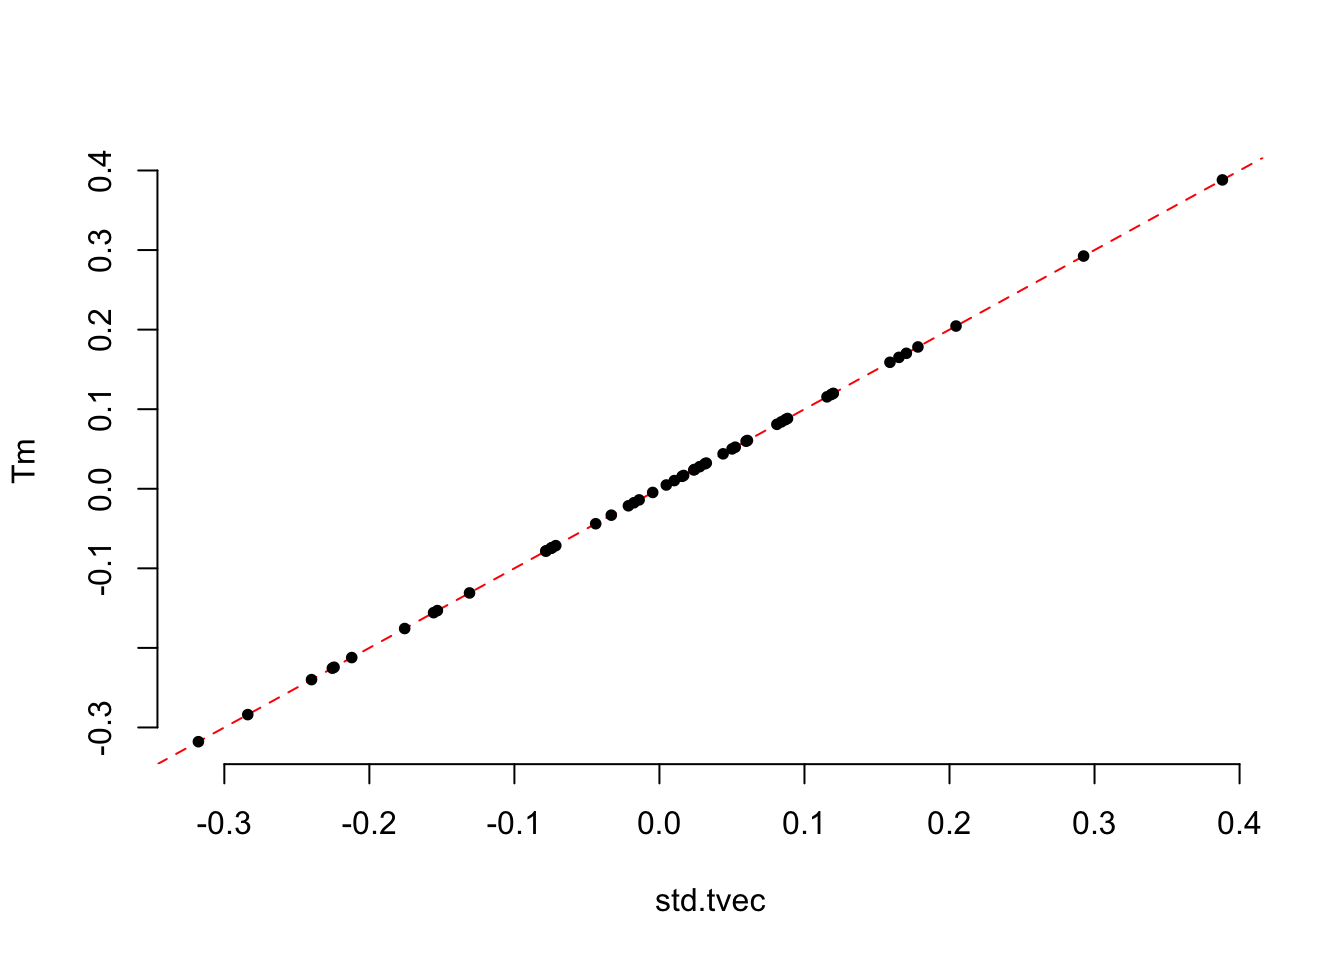
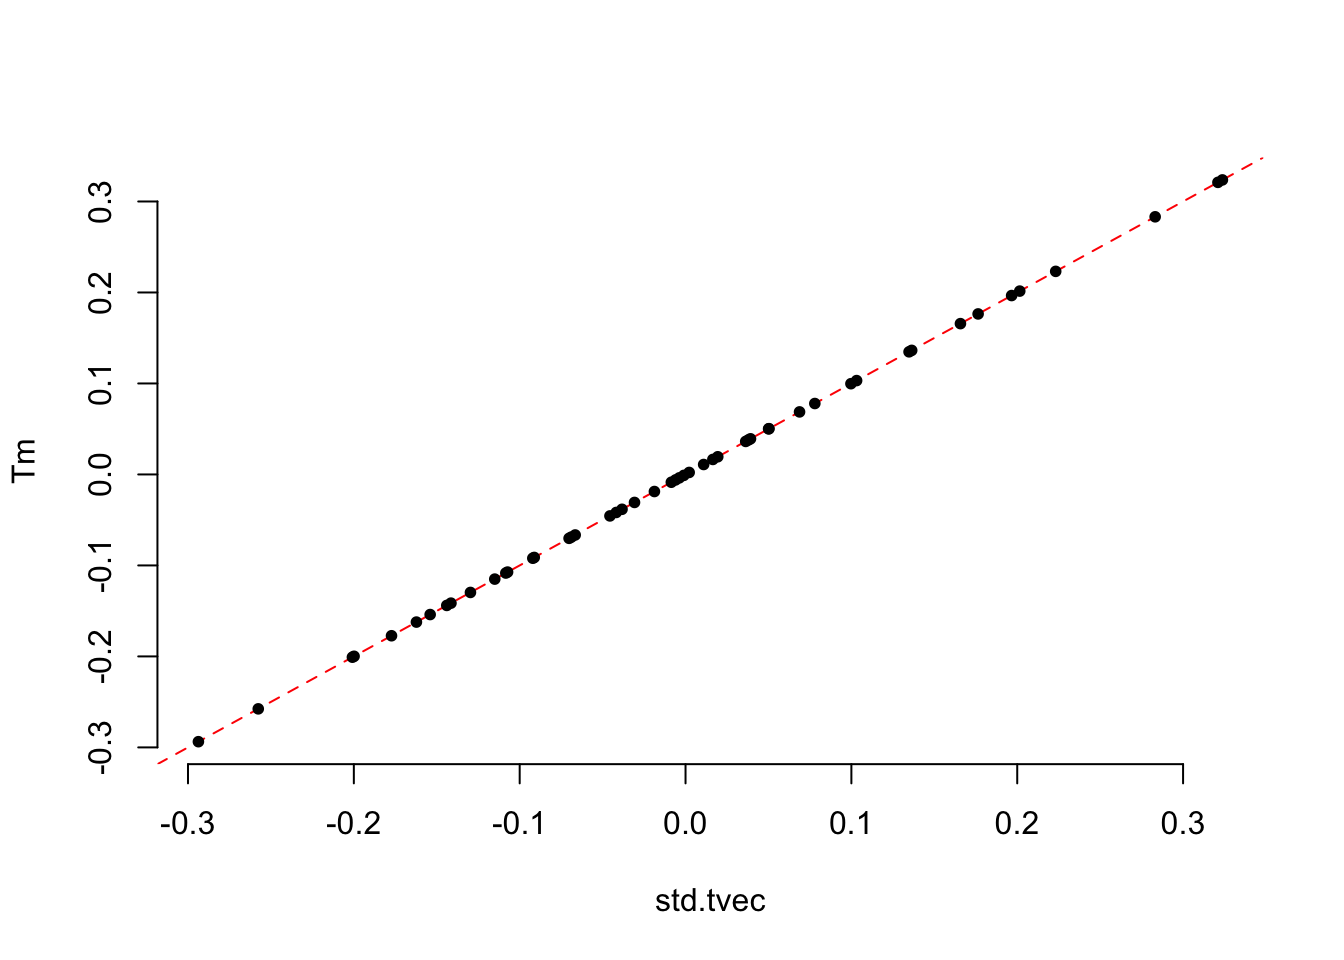
Build site.

diff --git a/docs/Test_vec.html b/docs/Test_vec.html
@@ -413,7 +413,7 @@ div.tocify {
 <div class="tab-content">
 <div id="summary" class="tab-pane fade in active">
 <p>
-<strong>Last updated:</strong> 2020-12-14
+<strong>Last updated:</strong> 2020-12-15
 </p>
 <p>
 <strong>Checks:</strong> <span class="glyphicon glyphicon-ok text-success" aria-hidden="true"></span> 7 <span class="glyphicon glyphicon-exclamation-sign text-danger" aria-hidden="true"></span> 0
@@ -504,16 +504,16 @@ This reproducible <a href="http://rmarkdown.rstudio.com">R Markdown</a> analysis
 <div class="panel panel-default">
 <div class="panel-heading">
 <p class="panel-title">
-<a data-toggle="collapse" data-parent="#workflowr-checks" href="#strongRepositoryversionstrongahrefhttpsgithubcomjgblancpolygenicadaptationstratificationtree675a6155cd1eae8dac8272c65f88fbe6326334detargetblank675a615a"> <span class="glyphicon glyphicon-ok text-success" aria-hidden="true"></span> <strong>Repository version:</strong> <a href="https://github.com/jgblanc/polygenic_adaptation_stratification/tree/675a6155cd1eae8dac8272c65f88fbe6326334de" target="_blank">675a615</a> </a>
+<a data-toggle="collapse" data-parent="#workflowr-checks" href="#strongRepositoryversionstrongahrefhttpsgithubcomjgblancpolygenicadaptationstratificationtree8d38c9dd408cff7b6e8840e7d1876dec6f9fef73targetblank8d38c9da"> <span class="glyphicon glyphicon-ok text-success" aria-hidden="true"></span> <strong>Repository version:</strong> <a href="https://github.com/jgblanc/polygenic_adaptation_stratification/tree/8d38c9dd408cff7b6e8840e7d1876dec6f9fef73" target="_blank">8d38c9d</a> </a>
 </p>
 </div>
[2 lines of base64/hex data omitted]
 <div class="panel-body">
 <p>
 Great! You are using Git for version control. Tracking code development and connecting the code version to the results is critical for reproducibility.
 </p>
 <p>
-The results in this page were generated with repository version <a href="https://github.com/jgblanc/polygenic_adaptation_stratification/tree/675a6155cd1eae8dac8272c65f88fbe6326334de" target="_blank">675a615</a>. See the <em>Past versions</em> tab to see a history of the changes made to the R Markdown and HTML files.
+The results in this page were generated with repository version <a href="https://github.com/jgblanc/polygenic_adaptation_stratification/tree/8d38c9dd408cff7b6e8840e7d1876dec6f9fef73" target="_blank">8d38c9d</a>. See the <em>Past versions</em> tab to see a history of the changes made to the R Markdown and HTML files.
 </p>
 <p>
 Note that you need to be careful to ensure that all relevant files for the analysis have been committed to Git prior to generating the results (you can use <code>wflow_publish</code> or <code>wflow_git_commit</code>). workflowr only checks the R Markdown file, but you know if there are other scripts or data files that it depends on. Below is the status of the Git repository when the results were generated:
@@ -574,6 +574,40 @@ Message
 Rmd
 </td>
 <td>
+<a href="https://github.com/jgblanc/polygenic_adaptation_stratification/blob/8d38c9dd408cff7b6e8840e7d1876dec6f9fef73/analysis/Test_vec.Rmd" target="_blank">8d38c9d</a>
+</td>
+<td>
+jgblanc
+</td>
+<td>
+2020-12-15
+</td>
+<td>
+fixed bug
+</td>
+</tr>
+<tr>
+<td>
+html
+</td>
+<td>
+<a href="https://rawcdn.githack.com/jgblanc/polygenic_adaptation_stratification/25150cd2fa70005c08724bb459d853b0d4465440/docs/Test_vec.html" target="_blank">25150cd</a>
+</td>
+<td>
+jgblanc
+</td>
+<td>
+2020-12-14
+</td>
+<td>
+Build site.
+</td>
+</tr>
+<tr>
+<td>
+Rmd
+</td>
+<td>
 <a href="https://github.com/jgblanc/polygenic_adaptation_stratification/blob/675a6155cd1eae8dac8272c65f88fbe6326334de/analysis/Test_vec.Rmd" target="_blank">675a615</a>
 </td>
 <td>
@@ -594,11 +628,13 @@ Lab meeting
 </div>
 </div>
 <pre class="r"><code>simulate_genotypes &lt;- function(n, L, ploidy) {
+  # Simulate n idividuals, genotyped at L sites with a certain ploidy by drawing from a binomial distribution
   test.genos &lt;- scale(matrix(rbinom(n*L, ploidy, 0.5), ncol = L, nrow = n), scale = F)
   return(test.genos)
 }
 
 PC_test_vec &lt;- function(eig, num_vec) {
+  # Do eigen decomposition and make the &quot;num_nec&quot; eigenvector the test vector and then standardize
   vecs &lt;- eig$vectors
   tvec &lt;- vecs[,num_vec]
   ctvec &lt;- (tvec-mean(tvec))
@@ -607,53 +643,196 @@ PC_test_vec &lt;- function(eig, num_vec) {
 }
 
 categorical_test_vec &lt;- function(n) {
-  ninds = n+n
-  tvec &lt;- c(rep(1,ninds/4),rep(0,ninds/4))
+  # Make the test vector a series of 0&#39;s and 1&#39;s 
+  tvec &lt;- c(rep(1,(n/2)),rep(0, (n/2)))
   ctvec &lt;- (tvec-mean(tvec))
   std.tvec &lt;- ctvec/sqrt(sum(ctvec^2))
   return(std.tvec)
 }
 
 random_cont_test_vec &lt;- function(n){
+  # Make the test vector random, drawn from a uniform distribution 
   tvec &lt;- runif(n)
   ctvec &lt;- (tvec-mean(tvec))
   std.tvec &lt;- ctvec/sqrt(sum(ctvec^2))
   return(std.tvec)  
+}
+
+get_test_vec_coeffs &lt;- function(std.tvec, vecs) {
+  betas &lt;- t(vecs) %*% std.tvec
+  # remove last beta
+  betas &lt;- betas[1:ncol(vecs)-1]
+  return(betas)
 }</code></pre>
-<p>We have a vector along which we want to test a panel of individuals for polygenic adaptation. This test vector can be anything - a priniciple component, a continuous environmental variable, a discrete population label. We have theory that suggests when the test panel and GWAS panel are the same, we should be able to write:</p>
-<p><span class="math display">\[T = GG^TTT^T(GG^T)^{-1}T\]</span></p>
-<p>This only seems to be true when the test vector is prinicple component 1-(n-1) of the test panel.</p>
-<p>Simulate Genotypes</p>
-<pre class="r"><code>test.genos &lt;- simulate_genotypes(50, 1000, 100)
+<p>We have a vector along which we want to test a panel of individuals for polygenic adaptation. This test vector can be anything - a priniciple component, a continuous environmental variable, a discrete population label. When the test panel is equal to the GWAS panel, we can write the test vector as:</p>
+<p><span class="math display">\[T = \sum\limits_{i}^{n-1}\frac{\beta_iGG^TU_i}{\lambda_i}\]</span></p>
+<p>Simulation</p>
+<pre class="r"><code># Simulate genotypes
+test.genos &lt;- simulate_genotypes(50, 1000, 100)
+
+# Covariance matrix
 test.cov &lt;- test.genos%*%t(test.genos)/(ncol(test.genos)-1)
-eig &lt;- eigen(test.cov)</code></pre>
+
+# Eigen decomposition
+eig &lt;- eigen(test.cov)
+vecs &lt;- eig$vectors
+values &lt;- eig$values</code></pre>
 <p>Use Principal Components as Test Vector</p>
-<pre class="r"><code>std.tvec &lt;- PC_test_vec(eig, num_vec = 49)
-t.eigval &lt;- as.numeric(t(std.tvec) %*% test.cov %*% std.tvec)
-Tm &lt;-  (test.cov %*% std.tvec) / as.numeric(t.eigval)
+<pre class="r"><code>std.tvec &lt;- PC_test_vec(eig, num_vec = 1)
+betas &lt;- get_test_vec_coeffs(std.tvec, vecs)
+
+# Calculate Tm
+out &lt;- matrix(NA, ncol = 50, nrow = 49)
+for (i in 1:49){
+   out[i, ] = betas[i] * ((test.cov %*% vecs[,i]) / eig$values[i])
+ }
+Tm = colSums(out)
 
 plot(std.tvec,Tm,type=&#39;n&#39;,pch=20,bty=&#39;n&#39;)
 abline(a=0,b=1,col=&#39;red&#39;,lty=2)
 points(std.tvec,Tm,pch=20)</code></pre>
 <p><img src="figure/Test_vec.Rmd/unnamed-chunk-3-1.png" width="672" style="display: block; margin: auto;" /></p>
+<p>
+<button type="button" class="btn btn-default btn-xs btn-workflowr btn-workflowr-fig" data-toggle="collapse" data-target="#fig-unnamed-chunk-3-1">
+Past versions of unnamed-chunk-3-1.png
+</button>
+</p>
+<div id="fig-unnamed-chunk-3-1" class="collapse">
+<div class="table-responsive">
+<table class="table table-condensed table-hover">
+<thead>
+<tr>
+<th>
+Version
+</th>
+<th>
+Author
+</th>
+<th>
+Date
+</th>
+</tr>
+</thead>
+<tbody>
+<tr>
+<td>
+<a href="https://github.com/jgblanc/polygenic_adaptation_stratification/blob/25150cd2fa70005c08724bb459d853b0d4465440/docs/figure/Test_vec.Rmd/unnamed-chunk-3-1.png" target="_blank">25150cd</a>
+</td>
+<td>
+jgblanc
+</td>
+<td>
+2020-12-14
+</td>
+</tr>
+</tbody>
+</table>
+</div>
+</div>
 <p>Use 0/1 as Test Vec</p>
 <pre class="r"><code>std.tvec &lt;- categorical_test_vec(50)
-t.eigval &lt;- as.numeric(t(std.tvec) %*% test.cov %*% std.tvec)
-Tm &lt;-  (test.cov %*% std.tvec) / as.numeric(t.eigval)
+betas &lt;- get_test_vec_coeffs(std.tvec, vecs)
+
+# Calculate Tm
+out &lt;- matrix(NA, ncol = 50, nrow = 49)
+for (i in 1:49){
+   out[i, ] = betas[i] * ((test.cov %*% vecs[,i]) / eig$values[i])
+ }
+Tm = colSums(out)
 
 plot(std.tvec,Tm,type=&#39;n&#39;,pch=20,bty=&#39;n&#39;)
 abline(a=0,b=1,col=&#39;red&#39;,lty=2)
 points(std.tvec,Tm,pch=20)</code></pre>
 <p><img src="figure/Test_vec.Rmd/unnamed-chunk-4-1.png" width="672" style="display: block; margin: auto;" /></p>
+<p>
+<button type="button" class="btn btn-default btn-xs btn-workflowr btn-workflowr-fig" data-toggle="collapse" data-target="#fig-unnamed-chunk-4-1">
+Past versions of unnamed-chunk-4-1.png
+</button>
+</p>
+<div id="fig-unnamed-chunk-4-1" class="collapse">
+<div class="table-responsive">
+<table class="table table-condensed table-hover">
+<thead>
+<tr>
+<th>
+Version
+</th>
+<th>
+Author
+</th>
+<th>
+Date
+</th>
+</tr>
+</thead>
+<tbody>
+<tr>
+<td>
+<a href="https://github.com/jgblanc/polygenic_adaptation_stratification/blob/25150cd2fa70005c08724bb459d853b0d4465440/docs/figure/Test_vec.Rmd/unnamed-chunk-4-1.png" target="_blank">25150cd</a>
+</td>
+<td>
+jgblanc
+</td>
+<td>
+2020-12-14
+</td>
+</tr>
+</tbody>
+</table>
+</div>
+</div>
 <p>Use continuous random test vector</p>
 <pre class="r"><code>std.tvec &lt;- random_cont_test_vec(50)
-t.eigval &lt;- as.numeric(t(std.tvec) %*% test.cov %*% std.tvec)
-Tm &lt;-  (test.cov %*% std.tvec) / as.numeric(t.eigval)
+betas &lt;- get_test_vec_coeffs(std.tvec, vecs)
+
+# Calculate Tm
+out &lt;- matrix(NA, ncol = 50, nrow = 49)
+for (i in 1:49){
+   out[i, ] = betas[i] * ((test.cov %*% vecs[,i]) / eig$values[i])
+ }
+Tm = colSums(out)
 
 plot(std.tvec,Tm,type=&#39;n&#39;,pch=20,bty=&#39;n&#39;)
 abline(a=0,b=1,col=&#39;red&#39;,lty=2)
 points(std.tvec,Tm,pch=20)</code></pre>
 <p><img src="figure/Test_vec.Rmd/unnamed-chunk-5-1.png" width="672" style="display: block; margin: auto;" /></p>
+<p>
+<button type="button" class="btn btn-default btn-xs btn-workflowr btn-workflowr-fig" data-toggle="collapse" data-target="#fig-unnamed-chunk-5-1">
+Past versions of unnamed-chunk-5-1.png
+</button>
+</p>
+<div id="fig-unnamed-chunk-5-1" class="collapse">
+<div class="table-responsive">
+<table class="table table-condensed table-hover">
+<thead>
+<tr>
+<th>
+Version
+</th>
+<th>
+Author
+</th>
+<th>
+Date
+</th>
+</tr>
+</thead>
+<tbody>
+<tr>
+<td>
+<a href="https://github.com/jgblanc/polygenic_adaptation_stratification/blob/25150cd2fa70005c08724bb459d853b0d4465440/docs/figure/Test_vec.Rmd/unnamed-chunk-5-1.png" target="_blank">25150cd</a>
+</td>
+<td>
+jgblanc
+</td>
+<td>
+2020-12-14
+</td>
+</tr>
+</tbody>
+</table>
+</div>
+</div>
 <br>
 <p>
 <button type="button" class="btn btn-default btn-workflowr btn-workflowr-sessioninfo" data-toggle="collapse" data-target="#workflowr-sessioninfo" style="display: block;">
